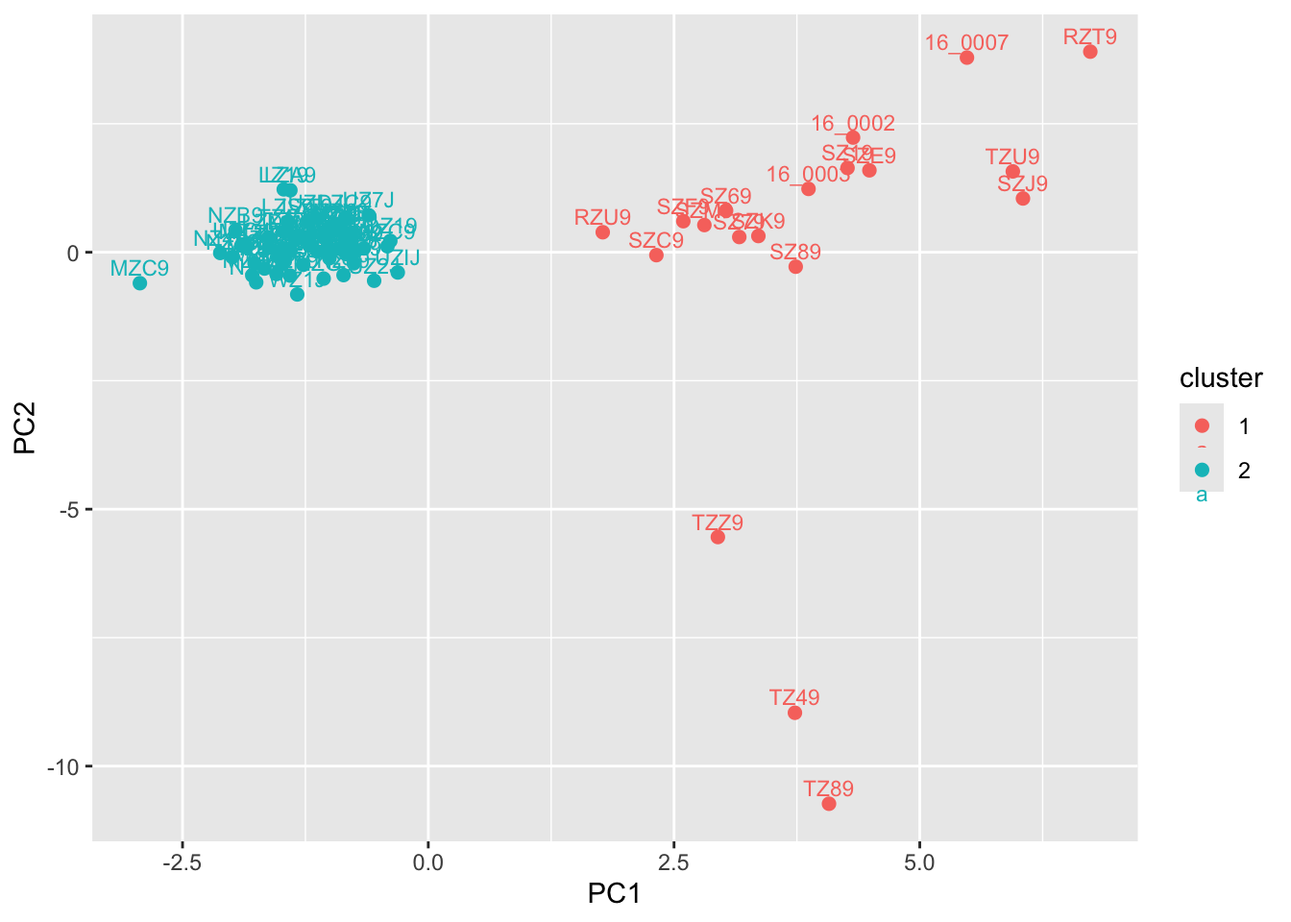
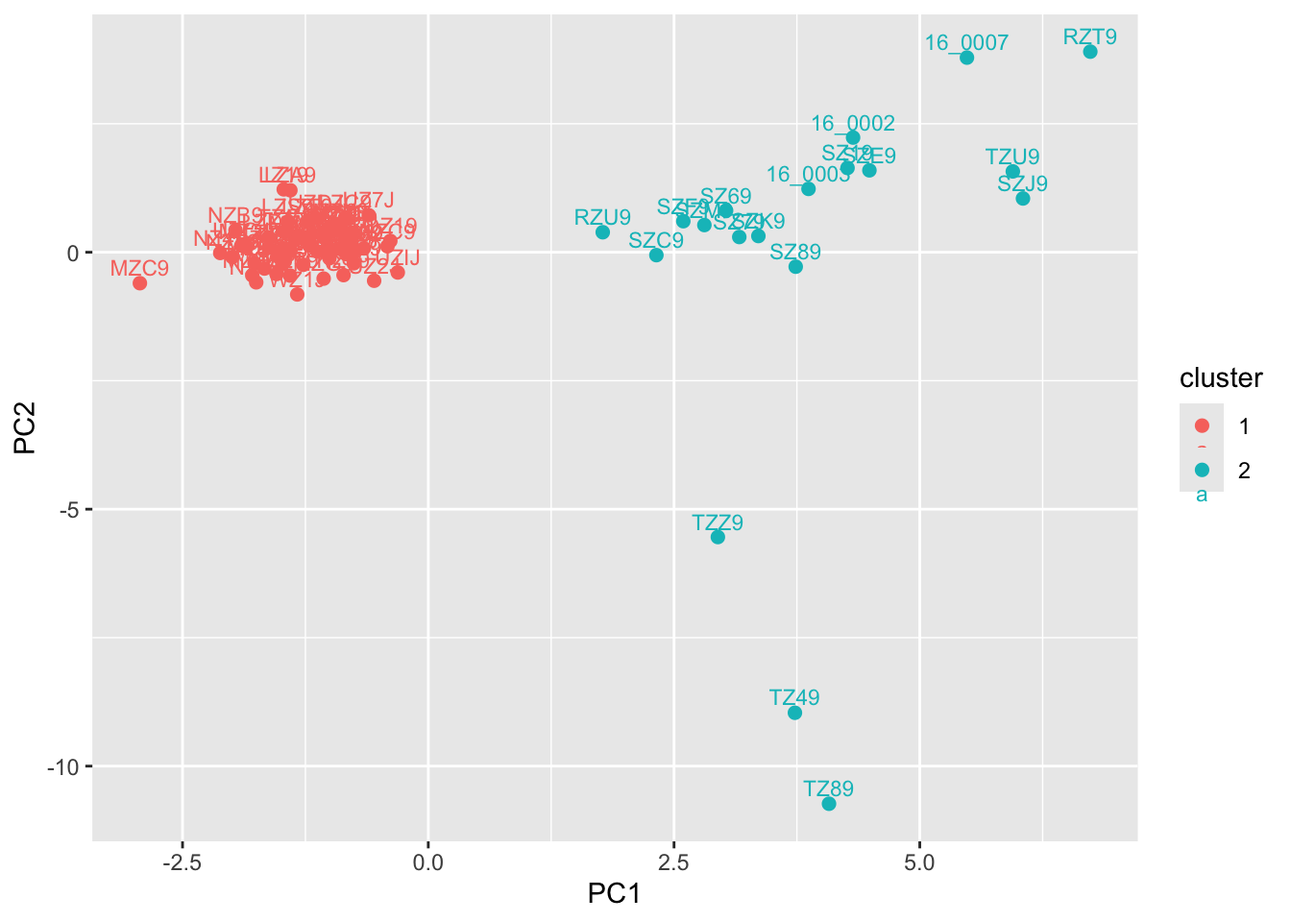
add slurm config to snakemake tutorial

diff --git a/docs/snakemake.html b/docs/snakemake.html
@@ -245,102 +245,111 @@ pre > code.sourceCode > span > a:first-child::before { text-decoration: underlin
 <span id="cb8-11"><a href="#cb8-11" aria-hidden="true" tabindex="-1"></a><span class="ex">module</span> load Mamba/23.11.0-0<span class="kw">;</span></span>
 <span id="cb8-12"><a href="#cb8-12" aria-hidden="true" tabindex="-1"></a><span class="bu">eval</span> <span class="st">"</span><span class="va">$(</span><span class="ex">conda</span> shell.bash hook<span class="va">)</span><span class="st">"</span></span>
 <span id="cb8-13"><a href="#cb8-13" aria-hidden="true" tabindex="-1"></a><span class="ex">snakemake</span> <span class="at">--profile</span> profile/slurm <span class="at">--use-conda</span></span></code></pre></div><button title="Copy to Clipboard" class="code-copy-button"><i class="bi"></i></button></div>
+<p>You should also add a configuration file for your job scheduler (<code>profiles/slurm/config.yaml</code>):</p>
+<div class="code-copy-outer-scaffold"><div class="sourceCode" id="cb9"><pre class="sourceCode bash code-with-copy"><code class="sourceCode bash"><span id="cb9-1"><a href="#cb9-1" aria-hidden="true" tabindex="-1"></a><span class="ex">executor:</span> slurm</span>
+<span id="cb9-2"><a href="#cb9-2" aria-hidden="true" tabindex="-1"></a><span class="ex">jobs:</span> 20</span>
+<span id="cb9-3"><a href="#cb9-3" aria-hidden="true" tabindex="-1"></a><span class="ex">latency-wait:</span> 60</span>
+<span id="cb9-4"><a href="#cb9-4" aria-hidden="true" tabindex="-1"></a><span class="ex">default-resources:</span></span>
+<span id="cb9-5"><a href="#cb9-5" aria-hidden="true" tabindex="-1"></a>  <span class="ex">-</span> runtime=30</span>
+<span id="cb9-6"><a href="#cb9-6" aria-hidden="true" tabindex="-1"></a>  <span class="ex">-</span> mem_mb=4000</span>
+<span id="cb9-7"><a href="#cb9-7" aria-hidden="true" tabindex="-1"></a>  <span class="ex">-</span> slurm_partition=priority</span>
+<span id="cb9-8"><a href="#cb9-8" aria-hidden="true" tabindex="-1"></a>  <span class="ex">-</span> slurm_account=priority-bioe-591-genomics</span></code></pre></div><button title="Copy to Clipboard" class="code-copy-button"><i class="bi"></i></button></div>
 <p>In theory, you should be ready to run the workflow. Before we do so, however, it is useful to perform a so-called dry run by invoking the same command with the addition of the argument <code>-n</code>. Doing so will test whether your paths and <code>Snakemake</code> syntax is correct and preview the steps it will run—something particularly helpful when they are not what you expect! Conveniently, this can be done on the login node (though recall you will need to make <code>Mamba</code> and the <code>conda</code> command accessible via <code>module load Mamba/23.11.0-0; eval "$(conda shell.bash hook)"</code>):</p>
-<div class="code-copy-outer-scaffold"><div class="sourceCode" id="cb9"><pre class="sourceCode bash code-with-copy"><code class="sourceCode bash"><span id="cb9-1"><a href="#cb9-1" aria-hidden="true" tabindex="-1"></a><span class="ex">snakemake</span> <span class="at">--profile</span> profile/slurm <span class="at">--use-conda</span> <span class="at">-n</span> </span></code></pre></div><button title="Copy to Clipboard" class="code-copy-button"><i class="bi"></i></button></div>
+<div class="code-copy-outer-scaffold"><div class="sourceCode" id="cb10"><pre class="sourceCode bash code-with-copy"><code class="sourceCode bash"><span id="cb10-1"><a href="#cb10-1" aria-hidden="true" tabindex="-1"></a><span class="ex">snakemake</span> <span class="at">--profile</span> profile/slurm <span class="at">--use-conda</span> <span class="at">-n</span> </span></code></pre></div><button title="Copy to Clipboard" class="code-copy-button"><i class="bi"></i></button></div>
 <p>If successful, you should see output that begins like this, summarizing the number of jobs on tap:</p>
-<div class="code-copy-outer-scaffold"><div class="sourceCode" id="cb10"><pre class="sourceCode bash code-with-copy"><code class="sourceCode bash"><span id="cb10-1"><a href="#cb10-1" aria-hidden="true" tabindex="-1"></a><span class="ex">Using</span> profile profile/slurm for setting default command line arguments.</span>
-<span id="cb10-2"><a href="#cb10-2" aria-hidden="true" tabindex="-1"></a><span class="ex">host:</span> tempest-login</span>
-<span id="cb10-3"><a href="#cb10-3" aria-hidden="true" tabindex="-1"></a><span class="ex">Building</span> DAG of jobs...</span>
-<span id="cb10-4"><a href="#cb10-4" aria-hidden="true" tabindex="-1"></a><span class="ex">Conda</span> environment envs/fastp.yaml will be created.</span>
-<span id="cb10-5"><a href="#cb10-5" aria-hidden="true" tabindex="-1"></a><span class="ex">Job</span> stats:</span>
-<span id="cb10-6"><a href="#cb10-6" aria-hidden="true" tabindex="-1"></a><span class="ex">job</span>      count</span>
-<span id="cb10-7"><a href="#cb10-7" aria-hidden="true" tabindex="-1"></a><span class="ex">-----</span>  <span class="at">-------</span></span>
-<span id="cb10-8"><a href="#cb10-8" aria-hidden="true" tabindex="-1"></a><span class="ex">fastp</span>        1</span>
-<span id="cb10-9"><a href="#cb10-9" aria-hidden="true" tabindex="-1"></a><span class="ex">total</span>        1</span></code></pre></div><button title="Copy to Clipboard" class="code-copy-button"><i class="bi"></i></button></div>
+<div class="code-copy-outer-scaffold"><div class="sourceCode" id="cb11"><pre class="sourceCode bash code-with-copy"><code class="sourceCode bash"><span id="cb11-1"><a href="#cb11-1" aria-hidden="true" tabindex="-1"></a><span class="ex">Using</span> profile profile/slurm for setting default command line arguments.</span>
+<span id="cb11-2"><a href="#cb11-2" aria-hidden="true" tabindex="-1"></a><span class="ex">host:</span> tempest-login</span>
+<span id="cb11-3"><a href="#cb11-3" aria-hidden="true" tabindex="-1"></a><span class="ex">Building</span> DAG of jobs...</span>
+<span id="cb11-4"><a href="#cb11-4" aria-hidden="true" tabindex="-1"></a><span class="ex">Conda</span> environment envs/fastp.yaml will be created.</span>
+<span id="cb11-5"><a href="#cb11-5" aria-hidden="true" tabindex="-1"></a><span class="ex">Job</span> stats:</span>
+<span id="cb11-6"><a href="#cb11-6" aria-hidden="true" tabindex="-1"></a><span class="ex">job</span>      count</span>
+<span id="cb11-7"><a href="#cb11-7" aria-hidden="true" tabindex="-1"></a><span class="ex">-----</span>  <span class="at">-------</span></span>
+<span id="cb11-8"><a href="#cb11-8" aria-hidden="true" tabindex="-1"></a><span class="ex">fastp</span>        1</span>
+<span id="cb11-9"><a href="#cb11-9" aria-hidden="true" tabindex="-1"></a><span class="ex">total</span>        1</span></code></pre></div><button title="Copy to Clipboard" class="code-copy-button"><i class="bi"></i></button></div>
 <p>The latter half indicates that <code>rule fastp</code> will indeed be run, as it is missing output files:</p>
-<div class="code-copy-outer-scaffold"><div class="sourceCode" id="cb11"><pre class="sourceCode bash code-with-copy"><code class="sourceCode bash"><span id="cb11-1"><a href="#cb11-1" aria-hidden="true" tabindex="-1"></a><span class="ex">rule</span> fastp:</span>
-<span id="cb11-2"><a href="#cb11-2" aria-hidden="true" tabindex="-1"></a>    <span class="ex">input:</span> data/sample1_R1.fastq.gz, data/sample1_R2.fastq.gz</span>
-<span id="cb11-3"><a href="#cb11-3" aria-hidden="true" tabindex="-1"></a>    <span class="ex">output:</span> results/clean/sample1_R1.clean.fastq.gz, results/clean/sample1_R2.clean.fastq.gz</span>
-<span id="cb11-4"><a href="#cb11-4" aria-hidden="true" tabindex="-1"></a>    <span class="ex">jobid:</span> 0</span>
-<span id="cb11-5"><a href="#cb11-5" aria-hidden="true" tabindex="-1"></a>    <span class="ex">reason:</span> Missing output files: results/clean/sample1_R1.clean.fastq.gz, results/clean/sample1_R2.clean.fastq.gz</span>
-<span id="cb11-6"><a href="#cb11-6" aria-hidden="true" tabindex="-1"></a>    <span class="ex">resources:</span> mem_mb=4000, mem_mib=3815, disk_mb=<span class="op">&lt;</span>TBD<span class="op">&gt;</span>, tmpdir=<span class="op">&lt;</span>TBD<span class="op">&gt;</span>, runtime=30, slurm_partition=<span class="op">&lt;</span>TBD<span class="op">&gt;</span>, slurm_account=<span class="op">&lt;</span>TBD<span class="op">&gt;</span></span>
-<span id="cb11-7"><a href="#cb11-7" aria-hidden="true" tabindex="-1"></a><span class="ex">Job</span> stats:</span>
-<span id="cb11-8"><a href="#cb11-8" aria-hidden="true" tabindex="-1"></a><span class="ex">job</span>      count</span>
-<span id="cb11-9"><a href="#cb11-9" aria-hidden="true" tabindex="-1"></a><span class="ex">-----</span>  <span class="at">-------</span></span>
-<span id="cb11-10"><a href="#cb11-10" aria-hidden="true" tabindex="-1"></a><span class="ex">fastp</span>        1</span>
-<span id="cb11-11"><a href="#cb11-11" aria-hidden="true" tabindex="-1"></a><span class="ex">total</span>        1</span>
-<span id="cb11-12"><a href="#cb11-12" aria-hidden="true" tabindex="-1"></a></span>
-<span id="cb11-13"><a href="#cb11-13" aria-hidden="true" tabindex="-1"></a><span class="ex">Reasons:</span></span>
-<span id="cb11-14"><a href="#cb11-14" aria-hidden="true" tabindex="-1"></a>    <span class="kw">(</span><span class="ex">check</span> individual jobs above for details<span class="kw">)</span></span>
-<span id="cb11-15"><a href="#cb11-15" aria-hidden="true" tabindex="-1"></a>    <span class="ex">output</span> files have to be generated:</span>
-<span id="cb11-16"><a href="#cb11-16" aria-hidden="true" tabindex="-1"></a>        <span class="ex">fastp</span></span>
-<span id="cb11-17"><a href="#cb11-17" aria-hidden="true" tabindex="-1"></a><span class="ex">This</span> was a dry-run <span class="er">(</span><span class="ex">flag</span> <span class="at">-n</span><span class="kw">)</span><span class="bu">.</span> The order of jobs does not reflect the order of execution.</span></code></pre></div><button title="Copy to Clipboard" class="code-copy-button"><i class="bi"></i></button></div>
+<div class="code-copy-outer-scaffold"><div class="sourceCode" id="cb12"><pre class="sourceCode bash code-with-copy"><code class="sourceCode bash"><span id="cb12-1"><a href="#cb12-1" aria-hidden="true" tabindex="-1"></a><span class="ex">rule</span> fastp:</span>
+<span id="cb12-2"><a href="#cb12-2" aria-hidden="true" tabindex="-1"></a>    <span class="ex">input:</span> data/sample1_R1.fastq.gz, data/sample1_R2.fastq.gz</span>
+<span id="cb12-3"><a href="#cb12-3" aria-hidden="true" tabindex="-1"></a>    <span class="ex">output:</span> results/clean/sample1_R1.clean.fastq.gz, results/clean/sample1_R2.clean.fastq.gz</span>
+<span id="cb12-4"><a href="#cb12-4" aria-hidden="true" tabindex="-1"></a>    <span class="ex">jobid:</span> 0</span>
+<span id="cb12-5"><a href="#cb12-5" aria-hidden="true" tabindex="-1"></a>    <span class="ex">reason:</span> Missing output files: results/clean/sample1_R1.clean.fastq.gz, results/clean/sample1_R2.clean.fastq.gz</span>
+<span id="cb12-6"><a href="#cb12-6" aria-hidden="true" tabindex="-1"></a>    <span class="ex">resources:</span> mem_mb=4000, mem_mib=3815, disk_mb=<span class="op">&lt;</span>TBD<span class="op">&gt;</span>, tmpdir=<span class="op">&lt;</span>TBD<span class="op">&gt;</span>, runtime=30, slurm_partition=<span class="op">&lt;</span>TBD<span class="op">&gt;</span>, slurm_account=<span class="op">&lt;</span>TBD<span class="op">&gt;</span></span>
+<span id="cb12-7"><a href="#cb12-7" aria-hidden="true" tabindex="-1"></a><span class="ex">Job</span> stats:</span>
+<span id="cb12-8"><a href="#cb12-8" aria-hidden="true" tabindex="-1"></a><span class="ex">job</span>      count</span>
+<span id="cb12-9"><a href="#cb12-9" aria-hidden="true" tabindex="-1"></a><span class="ex">-----</span>  <span class="at">-------</span></span>
+<span id="cb12-10"><a href="#cb12-10" aria-hidden="true" tabindex="-1"></a><span class="ex">fastp</span>        1</span>
+<span id="cb12-11"><a href="#cb12-11" aria-hidden="true" tabindex="-1"></a><span class="ex">total</span>        1</span>
+<span id="cb12-12"><a href="#cb12-12" aria-hidden="true" tabindex="-1"></a></span>
+<span id="cb12-13"><a href="#cb12-13" aria-hidden="true" tabindex="-1"></a><span class="ex">Reasons:</span></span>
+<span id="cb12-14"><a href="#cb12-14" aria-hidden="true" tabindex="-1"></a>    <span class="kw">(</span><span class="ex">check</span> individual jobs above for details<span class="kw">)</span></span>
+<span id="cb12-15"><a href="#cb12-15" aria-hidden="true" tabindex="-1"></a>    <span class="ex">output</span> files have to be generated:</span>
+<span id="cb12-16"><a href="#cb12-16" aria-hidden="true" tabindex="-1"></a>        <span class="ex">fastp</span></span>
+<span id="cb12-17"><a href="#cb12-17" aria-hidden="true" tabindex="-1"></a><span class="ex">This</span> was a dry-run <span class="er">(</span><span class="ex">flag</span> <span class="at">-n</span><span class="kw">)</span><span class="bu">.</span> The order of jobs does not reflect the order of execution.</span></code></pre></div><button title="Copy to Clipboard" class="code-copy-button"><i class="bi"></i></button></div>
 <p>Once your dry run command produces the above text, you can execute the real script, being careful to do so from the root of the <code>workflow/</code> directory to ensure relative paths are not broken (e.g., <code>sbatch run/snakemake.sbatch</code>). The job should run relatively quickly, producing the <code>fastp.html</code> and <code>fastp.json</code> files you inspected earlier. It will also output trimmed reads in the <code>results/clean/</code> subdirectory, with the names given by the <code>output:</code> block of <code>rule fastp</code> in your <code>Snakefile</code>.</p>
 <p>Though it is always satisfying to have a complicated piece of software run successfully, such a simple example does not clearly demonstrate one of the primary benefits of <code>Snakemake</code>—the ability to robustly apply commands to multiple samples simultaneously. You’ve come up with various solutions to this so far, ranging from copy-paste to the asterices in filenames, but may have also been burned by the difficulty of doing so safely and efficiently. We will now introduce <code>Snakemake</code>’s wildcard syntax, re-running <code>fastp</code> on multiple files simultaneously. To do so, you will want to copy at least one other sample’s paired end reads into <code>workflow/data</code>.</p>
 <p>Next, edit your <code>Snakefile</code> using <code>nano</code>. In simplified the example below, the wildcard <code>{sample}</code> will match any character string in a file that ends <code>_R1.fastq.gz</code>. (For most of you, <code>_R1_001.fastq.gz</code> and <code>_R2_001.fastq.gz</code> will be better choices.) We specify our samples with a vector labeled <code>SAMPLES</code>, which comes into play directly in the biggest addition to our <code>Snakefile</code>—the new <code>rule all</code>, which defines the end point of the workflow. Here, <code>Snakemake</code> simply looks for “input” files that indicate the entire pipeline is complete. In our case, these are trimmed <code>fastq.gz</code> files, which are listed using the <a href="https://snakemake.readthedocs.io/en/stable/snakefiles/rules.html">software’s <code>expand()</code> helper function</a>.</p>
-<div class="code-copy-outer-scaffold"><div class="sourceCode" id="cb12"><pre class="sourceCode bash code-with-copy"><code class="sourceCode bash"><span id="cb12-1"><a href="#cb12-1" aria-hidden="true" tabindex="-1"></a><span class="ex">SAMPLES</span> = <span class="pp">[</span><span class="st">"sample1"</span><span class="ss">,</span><span class="st">"sample2"</span><span class="pp">]</span></span>
-<span id="cb12-2"><a href="#cb12-2" aria-hidden="true" tabindex="-1"></a></span>
-<span id="cb12-3"><a href="#cb12-3" aria-hidden="true" tabindex="-1"></a><span class="ex">rule</span> all:</span>
-<span id="cb12-4"><a href="#cb12-4" aria-hidden="true" tabindex="-1"></a>    <span class="ex">input:</span></span>
-<span id="cb12-5"><a href="#cb12-5" aria-hidden="true" tabindex="-1"></a>        <span class="fu">expand</span><span class="er">(</span><span class="st">"results/clean/{sample}_R1.clean.fastq.gz"</span><span class="ex">,</span> sample=SAMPLES<span class="kw">)</span><span class="ex">,</span></span>
-<span id="cb12-6"><a href="#cb12-6" aria-hidden="true" tabindex="-1"></a>        <span class="fu">expand</span><span class="er">(</span><span class="st">"results/clean/{sample}_R2.clean.fastq.gz"</span><span class="ex">,</span> sample=SAMPLES<span class="kw">)</span></span>
-<span id="cb12-7"><a href="#cb12-7" aria-hidden="true" tabindex="-1"></a></span>
-<span id="cb12-8"><a href="#cb12-8" aria-hidden="true" tabindex="-1"></a><span class="ex">rule</span> fastp:</span>
-<span id="cb12-9"><a href="#cb12-9" aria-hidden="true" tabindex="-1"></a>    <span class="ex">conda:</span></span>
-<span id="cb12-10"><a href="#cb12-10" aria-hidden="true" tabindex="-1"></a>        <span class="st">"envs/fastp.yaml"</span></span>
-<span id="cb12-11"><a href="#cb12-11" aria-hidden="true" tabindex="-1"></a>    <span class="ex">input:</span></span>
-<span id="cb12-12"><a href="#cb12-12" aria-hidden="true" tabindex="-1"></a>        <span class="va">r1</span><span class="op">=</span><span class="st">"data/{sample}_R1.fastq.gz"</span>,</span>
-<span id="cb12-13"><a href="#cb12-13" aria-hidden="true" tabindex="-1"></a>        <span class="va">r2</span><span class="op">=</span><span class="st">"data/{sample}_R2.fastq.gz"</span></span>
-<span id="cb12-14"><a href="#cb12-14" aria-hidden="true" tabindex="-1"></a>    <span class="ex">output:</span></span>
-<span id="cb12-15"><a href="#cb12-15" aria-hidden="true" tabindex="-1"></a>        <span class="va">r1</span><span class="op">=</span><span class="st">"results/clean/{sample}_R1.clean.fastq.gz"</span>,</span>
-<span id="cb12-16"><a href="#cb12-16" aria-hidden="true" tabindex="-1"></a>        <span class="va">r2</span><span class="op">=</span><span class="st">"results/clean/{sample}_R2.clean.fastq.gz"</span></span>
-<span id="cb12-17"><a href="#cb12-17" aria-hidden="true" tabindex="-1"></a>    <span class="ex">shell:</span></span>
-<span id="cb12-18"><a href="#cb12-18" aria-hidden="true" tabindex="-1"></a>        <span class="st">"""</span></span>
-<span id="cb12-19"><a href="#cb12-19" aria-hidden="true" tabindex="-1"></a><span class="st">        fastp </span><span class="dt">\</span></span>
-<span id="cb12-20"><a href="#cb12-20" aria-hidden="true" tabindex="-1"></a><span class="st">        -i {input.r1} -I {input.r2} </span><span class="dt">\</span></span>
-<span id="cb12-21"><a href="#cb12-21" aria-hidden="true" tabindex="-1"></a><span class="st">        -o {output.r1} -O {output.r2}</span></span>
-<span id="cb12-22"><a href="#cb12-22" aria-hidden="true" tabindex="-1"></a><span class="st">        """</span></span></code></pre></div><button title="Copy to Clipboard" class="code-copy-button"><i class="bi"></i></button></div>
+<div class="code-copy-outer-scaffold"><div class="sourceCode" id="cb13"><pre class="sourceCode bash code-with-copy"><code class="sourceCode bash"><span id="cb13-1"><a href="#cb13-1" aria-hidden="true" tabindex="-1"></a><span class="ex">SAMPLES</span> = <span class="pp">[</span><span class="st">"sample1"</span><span class="ss">,</span><span class="st">"sample2"</span><span class="pp">]</span></span>
+<span id="cb13-2"><a href="#cb13-2" aria-hidden="true" tabindex="-1"></a></span>
+<span id="cb13-3"><a href="#cb13-3" aria-hidden="true" tabindex="-1"></a><span class="ex">rule</span> all:</span>
+<span id="cb13-4"><a href="#cb13-4" aria-hidden="true" tabindex="-1"></a>    <span class="ex">input:</span></span>
+<span id="cb13-5"><a href="#cb13-5" aria-hidden="true" tabindex="-1"></a>        <span class="fu">expand</span><span class="er">(</span><span class="st">"results/clean/{sample}_R1.clean.fastq.gz"</span><span class="ex">,</span> sample=SAMPLES<span class="kw">)</span><span class="ex">,</span></span>
+<span id="cb13-6"><a href="#cb13-6" aria-hidden="true" tabindex="-1"></a>        <span class="fu">expand</span><span class="er">(</span><span class="st">"results/clean/{sample}_R2.clean.fastq.gz"</span><span class="ex">,</span> sample=SAMPLES<span class="kw">)</span></span>
+<span id="cb13-7"><a href="#cb13-7" aria-hidden="true" tabindex="-1"></a></span>
+<span id="cb13-8"><a href="#cb13-8" aria-hidden="true" tabindex="-1"></a><span class="ex">rule</span> fastp:</span>
+<span id="cb13-9"><a href="#cb13-9" aria-hidden="true" tabindex="-1"></a>    <span class="ex">conda:</span></span>
+<span id="cb13-10"><a href="#cb13-10" aria-hidden="true" tabindex="-1"></a>        <span class="st">"envs/fastp.yaml"</span></span>
+<span id="cb13-11"><a href="#cb13-11" aria-hidden="true" tabindex="-1"></a>    <span class="ex">input:</span></span>
+<span id="cb13-12"><a href="#cb13-12" aria-hidden="true" tabindex="-1"></a>        <span class="va">r1</span><span class="op">=</span><span class="st">"data/{sample}_R1.fastq.gz"</span>,</span>
+<span id="cb13-13"><a href="#cb13-13" aria-hidden="true" tabindex="-1"></a>        <span class="va">r2</span><span class="op">=</span><span class="st">"data/{sample}_R2.fastq.gz"</span></span>
+<span id="cb13-14"><a href="#cb13-14" aria-hidden="true" tabindex="-1"></a>    <span class="ex">output:</span></span>
+<span id="cb13-15"><a href="#cb13-15" aria-hidden="true" tabindex="-1"></a>        <span class="va">r1</span><span class="op">=</span><span class="st">"results/clean/{sample}_R1.clean.fastq.gz"</span>,</span>
+<span id="cb13-16"><a href="#cb13-16" aria-hidden="true" tabindex="-1"></a>        <span class="va">r2</span><span class="op">=</span><span class="st">"results/clean/{sample}_R2.clean.fastq.gz"</span></span>
+<span id="cb13-17"><a href="#cb13-17" aria-hidden="true" tabindex="-1"></a>    <span class="ex">shell:</span></span>
+<span id="cb13-18"><a href="#cb13-18" aria-hidden="true" tabindex="-1"></a>        <span class="st">"""</span></span>
+<span id="cb13-19"><a href="#cb13-19" aria-hidden="true" tabindex="-1"></a><span class="st">        fastp </span><span class="dt">\</span></span>
+<span id="cb13-20"><a href="#cb13-20" aria-hidden="true" tabindex="-1"></a><span class="st">        -i {input.r1} -I {input.r2} </span><span class="dt">\</span></span>
+<span id="cb13-21"><a href="#cb13-21" aria-hidden="true" tabindex="-1"></a><span class="st">        -o {output.r1} -O {output.r2}</span></span>
+<span id="cb13-22"><a href="#cb13-22" aria-hidden="true" tabindex="-1"></a><span class="st">        """</span></span></code></pre></div><button title="Copy to Clipboard" class="code-copy-button"><i class="bi"></i></button></div>
 <p>Once your paths and filenames have been changed as needed, attempt another dry run (<code>snakemake --profile profile/slurm --use-conda -n</code>). If it is successful, you will note that the <code>count</code> of the <code>total</code> row in the job stats section of the output now equals the number of samples you copied into your <code>data/</code> subdirectory. This indicates you are ready to run the <code>.sbatch</code> script for real.</p>
 <p>To conclude our <code>Snakemake</code> tutorial, we will expand our <code>Snakefile</code> to include a second rule: <code>index</code>, which will run <code>samtools faidx</code> to generate a <code>.fasta</code> index file. First, you’ll need to create a <code>genome/</code> subdirectory in <code>workflow/</code>, and copy over <code>hemoglobin_references.fasta</code> into it. You’ll also want to copy over the <code>align.yaml</code> environment into <code>envs/</code>. For convenience, I’ll reproduce that here:</p>
-<div class="code-copy-outer-scaffold"><div class="sourceCode" id="cb13"><pre class="sourceCode bash code-with-copy"><code class="sourceCode bash"><span id="cb13-1"><a href="#cb13-1" aria-hidden="true" tabindex="-1"></a><span class="ex">name:</span> align</span>
-<span id="cb13-2"><a href="#cb13-2" aria-hidden="true" tabindex="-1"></a><span class="ex">channels:</span></span>
-<span id="cb13-3"><a href="#cb13-3" aria-hidden="true" tabindex="-1"></a>  <span class="ex">-</span> conda-forge</span>
-<span id="cb13-4"><a href="#cb13-4" aria-hidden="true" tabindex="-1"></a>  <span class="ex">-</span> bioconda</span>
-<span id="cb13-5"><a href="#cb13-5" aria-hidden="true" tabindex="-1"></a><span class="ex">dependencies:</span></span>
-<span id="cb13-6"><a href="#cb13-6" aria-hidden="true" tabindex="-1"></a>  <span class="ex">-</span> bwa=0.7.17</span>
-<span id="cb13-7"><a href="#cb13-7" aria-hidden="true" tabindex="-1"></a>  <span class="ex">-</span> samtools=1.19</span></code></pre></div><button title="Copy to Clipboard" class="code-copy-button"><i class="bi"></i></button></div>
+<div class="code-copy-outer-scaffold"><div class="sourceCode" id="cb14"><pre class="sourceCode bash code-with-copy"><code class="sourceCode bash"><span id="cb14-1"><a href="#cb14-1" aria-hidden="true" tabindex="-1"></a><span class="ex">name:</span> align</span>
+<span id="cb14-2"><a href="#cb14-2" aria-hidden="true" tabindex="-1"></a><span class="ex">channels:</span></span>
+<span id="cb14-3"><a href="#cb14-3" aria-hidden="true" tabindex="-1"></a>  <span class="ex">-</span> conda-forge</span>
+<span id="cb14-4"><a href="#cb14-4" aria-hidden="true" tabindex="-1"></a>  <span class="ex">-</span> bioconda</span>
+<span id="cb14-5"><a href="#cb14-5" aria-hidden="true" tabindex="-1"></a><span class="ex">dependencies:</span></span>
+<span id="cb14-6"><a href="#cb14-6" aria-hidden="true" tabindex="-1"></a>  <span class="ex">-</span> bwa=0.7.17</span>
+<span id="cb14-7"><a href="#cb14-7" aria-hidden="true" tabindex="-1"></a>  <span class="ex">-</span> samtools=1.19</span></code></pre></div><button title="Copy to Clipboard" class="code-copy-button"><i class="bi"></i></button></div>
 <p>Then, add the following <code>rule</code> to the end of your <code>Snakefile</code> (i.e., one blank line below the end of <code>rule fastp</code>):</p>
-<div class="code-copy-outer-scaffold"><div class="sourceCode" id="cb14"><pre class="sourceCode bash code-with-copy"><code class="sourceCode bash"><span id="cb14-1"><a href="#cb14-1" aria-hidden="true" tabindex="-1"></a><span class="ex">rule</span> index:</span>
-<span id="cb14-2"><a href="#cb14-2" aria-hidden="true" tabindex="-1"></a>    <span class="ex">input:</span></span>
-<span id="cb14-3"><a href="#cb14-3" aria-hidden="true" tabindex="-1"></a>        <span class="st">"genome/hemoglobin_references.fasta"</span></span>
-<span id="cb14-4"><a href="#cb14-4" aria-hidden="true" tabindex="-1"></a>    <span class="ex">output:</span></span>
-<span id="cb14-5"><a href="#cb14-5" aria-hidden="true" tabindex="-1"></a>        <span class="st">"genome/hemoglobin_references.fasta.fai"</span></span>
-<span id="cb14-6"><a href="#cb14-6" aria-hidden="true" tabindex="-1"></a>    <span class="ex">conda:</span></span>
-<span id="cb14-7"><a href="#cb14-7" aria-hidden="true" tabindex="-1"></a>        <span class="st">"envs/align.yaml"</span></span>
-<span id="cb14-8"><a href="#cb14-8" aria-hidden="true" tabindex="-1"></a>    <span class="ex">shell:</span></span>
-<span id="cb14-9"><a href="#cb14-9" aria-hidden="true" tabindex="-1"></a>        <span class="st">"""</span></span>
-<span id="cb14-10"><a href="#cb14-10" aria-hidden="true" tabindex="-1"></a><span class="st">        samtools faidx {input}</span></span>
-<span id="cb14-11"><a href="#cb14-11" aria-hidden="true" tabindex="-1"></a><span class="st">        """</span></span></code></pre></div><button title="Copy to Clipboard" class="code-copy-button"><i class="bi"></i></button></div>
+<div class="code-copy-outer-scaffold"><div class="sourceCode" id="cb15"><pre class="sourceCode bash code-with-copy"><code class="sourceCode bash"><span id="cb15-1"><a href="#cb15-1" aria-hidden="true" tabindex="-1"></a><span class="ex">rule</span> index:</span>
+<span id="cb15-2"><a href="#cb15-2" aria-hidden="true" tabindex="-1"></a>    <span class="ex">input:</span></span>
+<span id="cb15-3"><a href="#cb15-3" aria-hidden="true" tabindex="-1"></a>        <span class="st">"genome/hemoglobin_references.fasta"</span></span>
+<span id="cb15-4"><a href="#cb15-4" aria-hidden="true" tabindex="-1"></a>    <span class="ex">output:</span></span>
+<span id="cb15-5"><a href="#cb15-5" aria-hidden="true" tabindex="-1"></a>        <span class="st">"genome/hemoglobin_references.fasta.fai"</span></span>
+<span id="cb15-6"><a href="#cb15-6" aria-hidden="true" tabindex="-1"></a>    <span class="ex">conda:</span></span>
+<span id="cb15-7"><a href="#cb15-7" aria-hidden="true" tabindex="-1"></a>        <span class="st">"envs/align.yaml"</span></span>
+<span id="cb15-8"><a href="#cb15-8" aria-hidden="true" tabindex="-1"></a>    <span class="ex">shell:</span></span>
+<span id="cb15-9"><a href="#cb15-9" aria-hidden="true" tabindex="-1"></a>        <span class="st">"""</span></span>
+<span id="cb15-10"><a href="#cb15-10" aria-hidden="true" tabindex="-1"></a><span class="st">        samtools faidx {input}</span></span>
+<span id="cb15-11"><a href="#cb15-11" aria-hidden="true" tabindex="-1"></a><span class="st">        """</span></span></code></pre></div><button title="Copy to Clipboard" class="code-copy-button"><i class="bi"></i></button></div>
 <p>If your indentation is O.K., you should be able to give the workflow a dry run immediately. Likely as not, you’ll see the following output:</p>
-<div class="code-copy-outer-scaffold"><div class="sourceCode" id="cb15"><pre class="sourceCode bash code-with-copy"><code class="sourceCode bash"><span id="cb15-1"><a href="#cb15-1" aria-hidden="true" tabindex="-1"></a><span class="ex">Building</span> DAG of jobs...</span>
-<span id="cb15-2"><a href="#cb15-2" aria-hidden="true" tabindex="-1"></a><span class="ex">Nothing</span> to be done <span class="er">(</span><span class="ex">all</span> requested files are present and up to date<span class="kw">)</span><span class="bu">.</span></span></code></pre></div><button title="Copy to Clipboard" class="code-copy-button"><i class="bi"></i></button></div>
+<div class="code-copy-outer-scaffold"><div class="sourceCode" id="cb16"><pre class="sourceCode bash code-with-copy"><code class="sourceCode bash"><span id="cb16-1"><a href="#cb16-1" aria-hidden="true" tabindex="-1"></a><span class="ex">Building</span> DAG of jobs...</span>
+<span id="cb16-2"><a href="#cb16-2" aria-hidden="true" tabindex="-1"></a><span class="ex">Nothing</span> to be done <span class="er">(</span><span class="ex">all</span> requested files are present and up to date<span class="kw">)</span><span class="bu">.</span></span></code></pre></div><button title="Copy to Clipboard" class="code-copy-button"><i class="bi"></i></button></div>
 <p>But there’s a new rule!, I can hear you gasp. How can this be?! The answer is that <code>rule all</code> has a target (trimmed <code>.fastq.gz</code> files) that does not directly or indirectly invoke the output of <code>rule index</code>. To continue with your workflow, you’ll need to update <code>rule all</code> to reflect the new endpoint, i.e.:</p>
-<div class="code-copy-outer-scaffold"><div class="sourceCode" id="cb16"><pre class="sourceCode bash code-with-copy"><code class="sourceCode bash"><span id="cb16-1"><a href="#cb16-1" aria-hidden="true" tabindex="-1"></a><span class="ex">rule</span> all:</span>
-<span id="cb16-2"><a href="#cb16-2" aria-hidden="true" tabindex="-1"></a>    <span class="ex">input:</span></span>
-<span id="cb16-3"><a href="#cb16-3" aria-hidden="true" tabindex="-1"></a>        <span class="st">"genome/hemoglobin_references.fasta.fai"</span></span></code></pre></div><button title="Copy to Clipboard" class="code-copy-button"><i class="bi"></i></button></div>
+<div class="code-copy-outer-scaffold"><div class="sourceCode" id="cb17"><pre class="sourceCode bash code-with-copy"><code class="sourceCode bash"><span id="cb17-1"><a href="#cb17-1" aria-hidden="true" tabindex="-1"></a><span class="ex">rule</span> all:</span>
+<span id="cb17-2"><a href="#cb17-2" aria-hidden="true" tabindex="-1"></a>    <span class="ex">input:</span></span>
+<span id="cb17-3"><a href="#cb17-3" aria-hidden="true" tabindex="-1"></a>        <span class="st">"genome/hemoglobin_references.fasta.fai"</span></span></code></pre></div><button title="Copy to Clipboard" class="code-copy-button"><i class="bi"></i></button></div>
 <p>Once you’ve done so, you should be able to perform both dry and real runs, generating the desired <code>.fai</code> file. (Note that <code>rule all</code> will need to be updated again as you expand your pipeline to include downstream steps, e.g.&nbsp;variant calling and filtering.)</p>
 <p>Now that you have two rules, it is worth introducing <code>Snakemake</code>’s directed acyclic graph generator. Run the following command from the root of <code>workflow/</code>:</p>
-<div class="code-copy-outer-scaffold"><div class="sourceCode" id="cb17"><pre class="sourceCode bash code-with-copy"><code class="sourceCode bash"><span id="cb17-1"><a href="#cb17-1" aria-hidden="true" tabindex="-1"></a><span class="ex">snakemake</span> <span class="at">--dag</span> <span class="kw">|</span> <span class="ex">dot</span> <span class="at">-Tpng</span> <span class="op">&gt;</span> dag.png</span></code></pre></div><button title="Copy to Clipboard" class="code-copy-button"><i class="bi"></i></button></div>
+<div class="code-copy-outer-scaffold"><div class="sourceCode" id="cb18"><pre class="sourceCode bash code-with-copy"><code class="sourceCode bash"><span id="cb18-1"><a href="#cb18-1" aria-hidden="true" tabindex="-1"></a><span class="ex">snakemake</span> <span class="at">--dag</span> <span class="kw">|</span> <span class="ex">dot</span> <span class="at">-Tpng</span> <span class="op">&gt;</span> dag.png</span></code></pre></div><button title="Copy to Clipboard" class="code-copy-button"><i class="bi"></i></button></div>
 <p>You can view this by transferring the file to your laptop via <code>Globus</code>, or via the Tempest Web portal. Though unimpressive now, the output will be increasingly helpful as your <code>Snakefile</code> grows in complexity. Similarly, you can generate a report that includes a DAG, versioning, and runtime info:</p>
-<div class="code-copy-outer-scaffold"><div class="sourceCode" id="cb18"><pre class="sourceCode bash code-with-copy"><code class="sourceCode bash"><span id="cb18-1"><a href="#cb18-1" aria-hidden="true" tabindex="-1"></a><span class="ex">snakemake</span> <span class="at">--report</span> report.html</span></code></pre></div><button title="Copy to Clipboard" class="code-copy-button"><i class="bi"></i></button></div>
+<div class="code-copy-outer-scaffold"><div class="sourceCode" id="cb19"><pre class="sourceCode bash code-with-copy"><code class="sourceCode bash"><span id="cb19-1"><a href="#cb19-1" aria-hidden="true" tabindex="-1"></a><span class="ex">snakemake</span> <span class="at">--report</span> report.html</span></code></pre></div><button title="Copy to Clipboard" class="code-copy-button"><i class="bi"></i></button></div>
 <p>Alas, if you take the time to view either of the previous files, you will notice that now, <code>rule fastp</code> will be ignored. This is again because <code>rule all</code> specifies target files do not require it. We can solve this problem by specifying multiple targets as follows:</p>
-<div class="code-copy-outer-scaffold"><div class="sourceCode" id="cb19"><pre class="sourceCode bash code-with-copy"><code class="sourceCode bash"><span id="cb19-1"><a href="#cb19-1" aria-hidden="true" tabindex="-1"></a><span class="ex">SAMPLES</span> = [<span class="st">"sample1"</span>, <span class="st">"sample2"</span>]</span>
-<span id="cb19-2"><a href="#cb19-2" aria-hidden="true" tabindex="-1"></a></span>
-<span id="cb19-3"><a href="#cb19-3" aria-hidden="true" tabindex="-1"></a><span class="ex">rule</span> all:</span>
-<span id="cb19-4"><a href="#cb19-4" aria-hidden="true" tabindex="-1"></a>    <span class="ex">input:</span></span>
-<span id="cb19-5"><a href="#cb19-5" aria-hidden="true" tabindex="-1"></a>        <span class="st">"genome/hemoglobin_references.fasta.fai"</span><span class="ex">,</span></span>
-<span id="cb19-6"><a href="#cb19-6" aria-hidden="true" tabindex="-1"></a>        <span class="fu">expand</span><span class="er">(</span><span class="st">"results/clean/{sample}_R1.clean.fastq.gz"</span><span class="ex">,</span> sample=SAMPLES<span class="kw">)</span><span class="ex">,</span></span>
-<span id="cb19-7"><a href="#cb19-7" aria-hidden="true" tabindex="-1"></a>        <span class="fu">expand</span><span class="er">(</span><span class="st">"results/clean/{sample}_R2.clean.fastq.gz"</span><span class="ex">,</span> sample=SAMPLES<span class="kw">)</span></span></code></pre></div><button title="Copy to Clipboard" class="code-copy-button"><i class="bi"></i></button></div>
+<div class="code-copy-outer-scaffold"><div class="sourceCode" id="cb20"><pre class="sourceCode bash code-with-copy"><code class="sourceCode bash"><span id="cb20-1"><a href="#cb20-1" aria-hidden="true" tabindex="-1"></a><span class="ex">SAMPLES</span> = [<span class="st">"sample1"</span>, <span class="st">"sample2"</span>]</span>
+<span id="cb20-2"><a href="#cb20-2" aria-hidden="true" tabindex="-1"></a></span>
+<span id="cb20-3"><a href="#cb20-3" aria-hidden="true" tabindex="-1"></a><span class="ex">rule</span> all:</span>
+<span id="cb20-4"><a href="#cb20-4" aria-hidden="true" tabindex="-1"></a>    <span class="ex">input:</span></span>
+<span id="cb20-5"><a href="#cb20-5" aria-hidden="true" tabindex="-1"></a>        <span class="st">"genome/hemoglobin_references.fasta.fai"</span><span class="ex">,</span></span>
+<span id="cb20-6"><a href="#cb20-6" aria-hidden="true" tabindex="-1"></a>        <span class="fu">expand</span><span class="er">(</span><span class="st">"results/clean/{sample}_R1.clean.fastq.gz"</span><span class="ex">,</span> sample=SAMPLES<span class="kw">)</span><span class="ex">,</span></span>
+<span id="cb20-7"><a href="#cb20-7" aria-hidden="true" tabindex="-1"></a>        <span class="fu">expand</span><span class="er">(</span><span class="st">"results/clean/{sample}_R2.clean.fastq.gz"</span><span class="ex">,</span> sample=SAMPLES<span class="kw">)</span></span></code></pre></div><button title="Copy to Clipboard" class="code-copy-button"><i class="bi"></i></button></div>
 <p>(However, this will not be necessary if a subsequent rule takes both as input—which, of course, is exactly what is needed for <code>bwa mem</code>.)</p>
 <p>Thus concludes our unit on pipelines. Though our introduction to <code>Snakemake</code> has been necessarily cursory, I hope it has demonstrated its potential power, and sets you off on a lifetime of productive. bioinformatics. Good luck, be safe, and have fun.</p>
 <div class="callout callout-style-default callout-note callout-titled" title="**Homework 8**">

diff --git a/docs/structure.html b/docs/structure.html
@@ -429,25 +429,25 @@ NULL
 
 $grp
     002     003     004 16_0002 16_0003 16_0007    LZ19    LZ49    LZA9    LZC9 
-      2       2       2       1       1       1       2       2       2       2 
+      1       1       1       2       2       2       1       1       1       1 
    LZD9    LZS9    LZT9    LZX9    LZZ9    MZ19    MZ29    MZ59    MZ69    MZ89 
-      2       2       2       2       2       2       2       2       2       2 
-   MZ99    MZC9    MZD9    MZE9    MZG9    MZI9    MZM9    MZP9    MZQ9    MZS9 
-      2       2       2       2       2       2       2       2       2       2 
-   MZT9    MZU9    MZV9    MZW9    MZY9    NZ49    NZ59    NZ69    NZ79    NZA9 
-      2       2       2       2       2       2       2       2       2       2 
-   NZB9    NZC9    NZE9    NZF9    NZG9    NZK9    OZ19    PZC9    PZX9    RZT9 
-      2       2       2       2       2       2       2       2       2       1 
-   RZU9    SZ19    SZ69    SZ79    SZ89    SZC9    SZE9    SZF9    SZJ9    SZK9 
       1       1       1       1       1       1       1       1       1       1 
-   SZM9    TZ49    TZ89    TZCJ    TZU9    TZZ9    UZ1J    UZ2J    UZ3J    UZ7J 
-      1       1       1       2       1       1       2       2       2       2 
-   UZ8J    UZAJ    UZDJ    UZFJ    UZGJ    UZIJ    UZJJ    UZZJ    WZ1J    ZZY8 
+   MZ99    MZC9    MZD9    MZE9    MZG9    MZI9    MZM9    MZP9    MZQ9    MZS9 
+      1       1       1       1       1       1       1       1       1       1 
+   MZT9    MZU9    MZV9    MZW9    MZY9    NZ49    NZ59    NZ69    NZ79    NZA9 
+      1       1       1       1       1       1       1       1       1       1 
+   NZB9    NZC9    NZE9    NZF9    NZG9    NZK9    OZ19    PZC9    PZX9    RZT9 
+      1       1       1       1       1       1       1       1       1       2 
+   RZU9    SZ19    SZ69    SZ79    SZ89    SZC9    SZE9    SZF9    SZJ9    SZK9 
       2       2       2       2       2       2       2       2       2       2 
+   SZM9    TZ49    TZ89    TZCJ    TZU9    TZZ9    UZ1J    UZ2J    UZ3J    UZ7J 
+      2       2       2       1       2       2       1       1       1       1 
+   UZ8J    UZAJ    UZDJ    UZFJ    UZGJ    UZIJ    UZJJ    UZZJ    WZ1J    ZZY8 
+      1       1       1       1       1       1       1       1       1       1 
 Levels: 1 2
 
 $size
-[1] 19 61</code></pre>
+[1] 61 19</code></pre>
 </div>
 </div>
 <p>We can visualize these clusters with a simply color aesthetic, which gives you unsurprising individual assignment:</p>
@@ -514,16 +514,16 @@ $eig (eigenvalues): 2986  vector    length content
 <pre><code># A tibble: 160 × 3
    sample  cluster ancestry
    &lt;chr&gt;   &lt;chr&gt;      &lt;dbl&gt;
- 1 002     1       7.57e-39
- 2 002     2       1   e+ 0
- 3 003     1       1.04e-49
- 4 003     2       1   e+ 0
- 5 004     1       1.54e-46
- 6 004     2       1   e+ 0
- 7 16_0002 1       1   e+ 0
- 8 16_0002 2       1.05e-47
- 9 16_0003 1       1   e+ 0
-10 16_0003 2       2.19e-50
+ 1 002     1       1   e+ 0
+ 2 002     2       7.57e-39
+ 3 003     1       1   e+ 0
+ 4 003     2       1.04e-49
+ 5 004     1       1   e+ 0
+ 6 004     2       1.54e-46
+ 7 16_0002 1       1.05e-47
+ 8 16_0002 2       1   e+ 0
+ 9 16_0003 1       2.19e-50
+10 16_0003 2       1   e+ 0
 # ℹ 150 more rows</code></pre>
 </div>
 </div>
@@ -560,9 +560,9 @@ $eig (eigenvalues): 2986  vector    length content
 <span id="cb29-11"><a href="#cb29-11" aria-hidden="true" tabindex="-1"></a>grp_auto<span class="sc">$</span>Kstat</span></code></pre></div><button title="Copy to Clipboard" class="code-copy-button"><i class="bi"></i></button></div>
 <div class="cell-output cell-output-stdout">
 <pre><code>     K=1      K=2      K=3      K=4      K=5      K=6      K=7      K=8 
-365.2108 365.0958 366.3905 368.5782 369.9612 372.1372 374.0104 376.1985 
+365.2108 365.0958 366.3905 367.9647 369.9612 372.0171 374.0408 375.8854 
      K=9     K=10 
-377.9166 379.9365 </code></pre>
+378.0675 379.8922 </code></pre>
 </div>
 <div class="code-copy-outer-scaffold"><div class="sourceCode cell-code" id="cb31"><pre class="sourceCode r code-with-copy"><code class="sourceCode r"><span id="cb31-1"><a href="#cb31-1" aria-hidden="true" tabindex="-1"></a><span class="co"># plot!</span></span>
 <span id="cb31-2"><a href="#cb31-2" aria-hidden="true" tabindex="-1"></a><span class="fu">plot</span>(</span>
